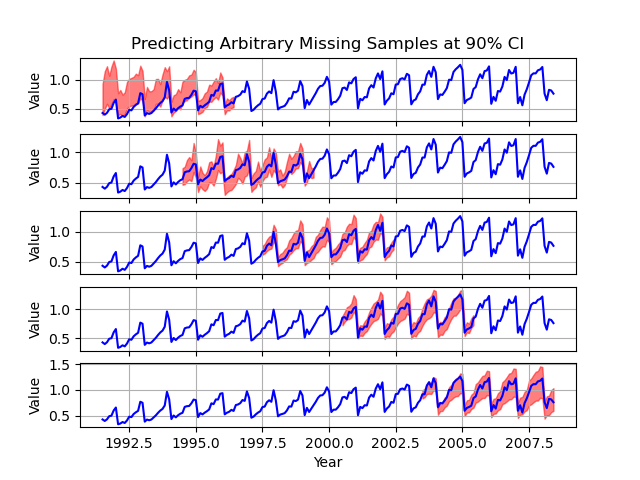
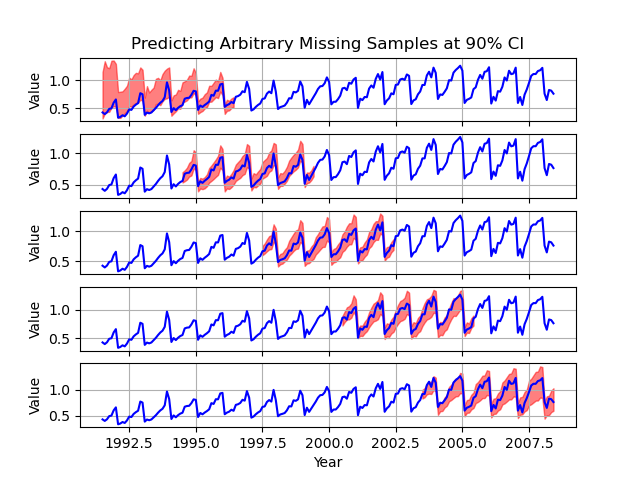
Run with model args 3,0,1,5,1,1,12 and add 4900 iterations to model fit.

diff --git a/ARIMA/examples/bayesian.py b/ARIMA/examples/bayesian.py
@@ -33,7 +33,7 @@ def fit(model, observations,
         lr_sequence=[(0.005, 100),
                      (0.010, 100)] * 5 +
                     [(0.005, 100),
-                     (0.001, 1000)],
+                     (0.001, 5000)],
         loss=pyro.infer.JitTrace_ELBO,
         loss_params=dict(num_particles=20, vectorize_particles=True, ignore_jit_warnings=True)):
     # Create posterior for Bayesian model
